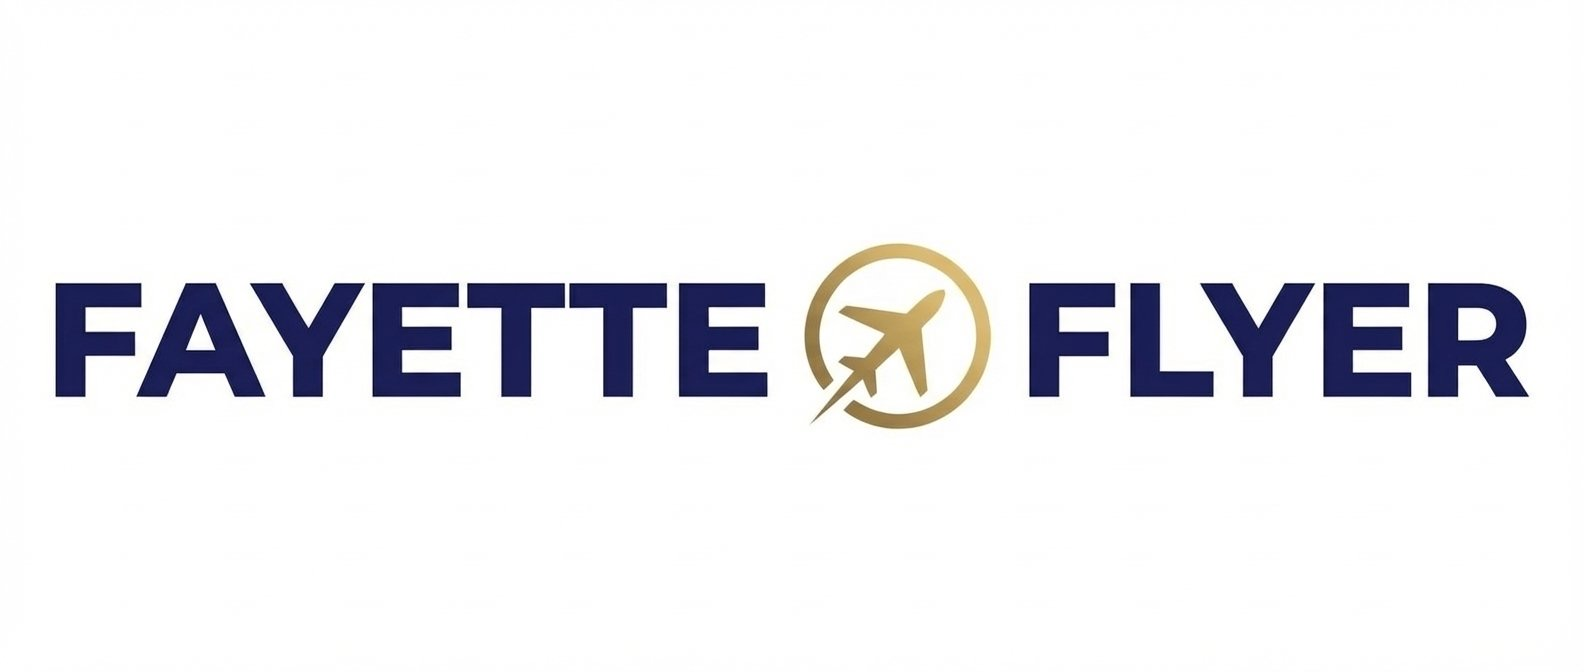
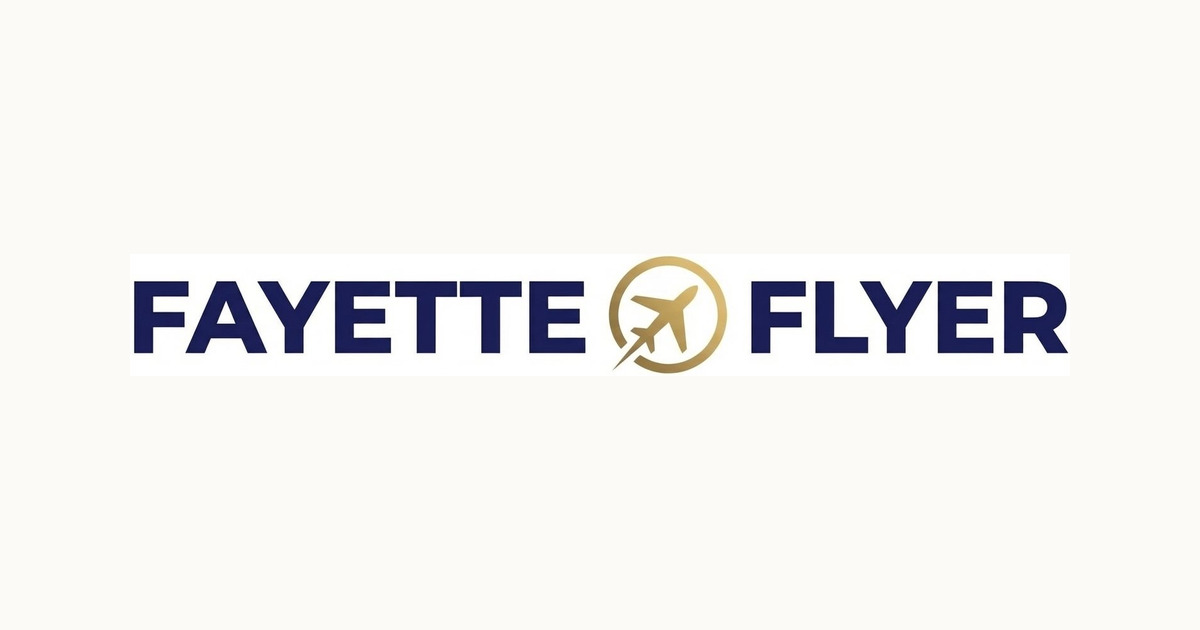
Fix default OG image sizing for social shares

Changed region(s): [[0.0308, 0.3619, 0.9867, 0.6635]]

diff --git a/src/app/layout.tsx b/src/app/layout.tsx
@@ -61,8 +61,8 @@ export const metadata: Metadata = {
     images: [
       {
         url: `${SITE_CONFIG.url}/og-default.jpg`,
-        width: 1584,
-        height: 672,
+        width: 1200,
+        height: 630,
         alt: "Fayette Flyer - First Class Local News for Fayette County, GA",
       },
     ],
